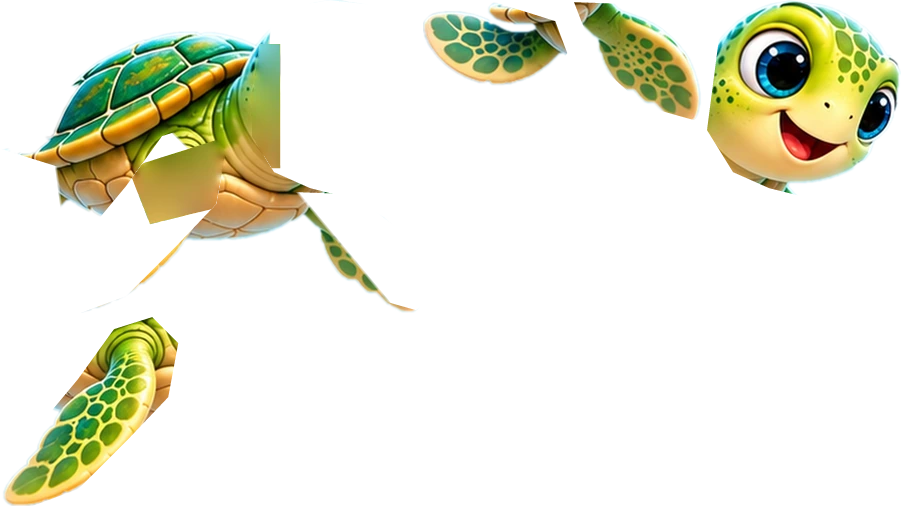
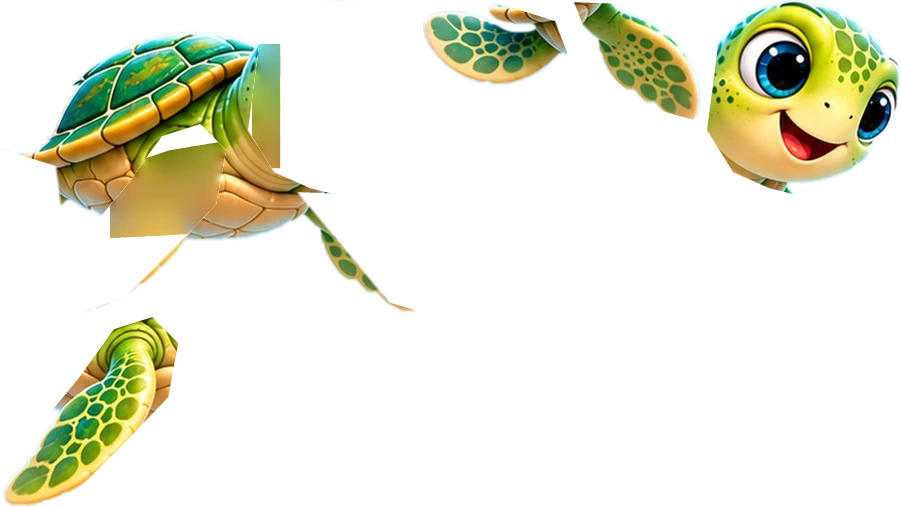
wip-whale

Changed region(s): [[0.1243, 0.3557, 0.2486, 0.4743], [0.1554, 0.2372, 0.2797, 0.3261], [0.2797, 0.0593, 0.3108, 0.0889]]

diff --git a/scripts/parts/bake.py b/scripts/parts/bake.py
@@ -19,7 +19,9 @@ ATLAS_W = 1024
 PAD = 2
 
 def load(key):
-    return np.asarray(Image.open(os.path.join(IMG, key + '.png')).convert('RGBA')).astype(np.float32) / 255
+    path = os.path.join(IMG, key + '.png')
+    if not os.path.exists(path): path = os.path.join(IMG, key + '.webp')
+    return np.asarray(Image.open(path).convert('RGBA')).astype(np.float32) / 255
 
 def poly_mask(poly, W, H, ss=4):
     m = Image.new('L', (W * ss, H * ss), 0)
@@ -65,9 +67,10 @@ def crop(a):
 def pack(items):
     """Shelf packing; returns positions and the atlas height."""
     x = y = shelf = 0; pos = []
+    width = max([ATLAS_W] + [a.shape[1] for a in items])
     for a in items:
         h, w = a.shape[:2]
-        if x + w > ATLAS_W: x, y, shelf = 0, y + shelf + PAD, 0
+        if x + w > width: x, y, shelf = 0, y + shelf + PAD, 0
         pos.append((x, y)); x += w + PAD; shelf = max(shelf, h)
     return pos, y + shelf
 
@@ -93,7 +96,9 @@ for key, s in spec.items():
             cards.append(c)
             (a, b) = p['root']; pivot = [(a[0] + b[0]) / 2, (a[1] + b[1]) / 2]
             meta.append({'rect': [x0, y0, c.shape[1], c.shape[0]], 'pivot': pivot, 'root': p['root']})
-            rm = m if p.get('cut') == 'all' or core is not None else m * beyond(p['root'], centre, W, H)
+            # A front part leaves the body entirely (what lies under it is filled below); a part
+            # behind the body only loses what reaches beyond its root line.
+            rm = m if p.get('front') or core is not None else m * beyond(p['root'], centre, W, H)
             if p.get('front') and 'under' in p:
                 region = poly_mask(p['under'], W, H) * (src[..., 3] > 0.5)
                 known = (body[..., 3] > 0.95) * (1 - np.clip(m * 4, 0, 1))
@@ -112,7 +117,7 @@ for key, s in spec.items():
     bc, (bx, by) = crop(body)
     items = [bc] + cards
     pos, AH = pack(items)
-    atlas = np.zeros((AH, ATLAS_W, 4), np.float32)
+    atlas = np.zeros((AH, max([ATLAS_W] + [a.shape[1] for a in items]), 4), np.float32)
     for (x, y), a in zip(pos, items): atlas[y:y + a.shape[0], x:x + a.shape[1]] = a
     used = max(x + a.shape[1] for (x, y), a in zip(pos, items))
     atlas = atlas[:, :used]
